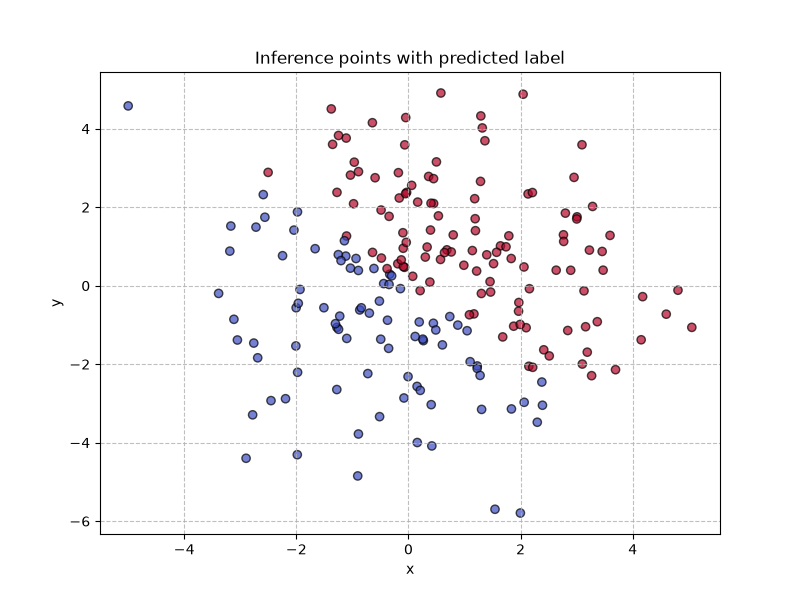
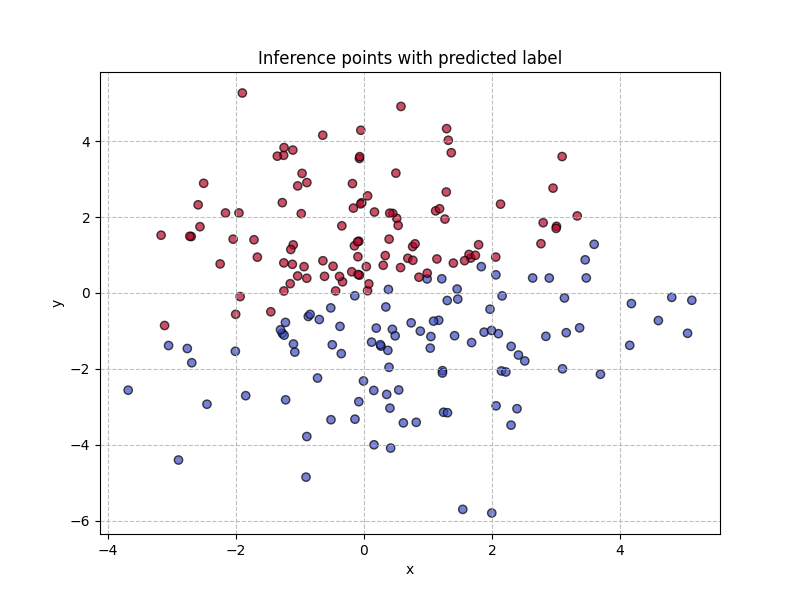
Addition of non-linear separable classes

diff --git a/src/data.py b/src/data.py
@@ -30,3 +30,22 @@ def gen_inference():
     points = c + np.random.normal(loc=0.0, scale=sigma, size=(n, 2))
 
     return points
+
+
+# non linearly separable dataset. There are two classes, one around the center (0, 0) and one at distance approx = 2 from the center
+def gen_non_lin_sep_train(): 
+    sigma = SIGMA / 2
+    n = N_PER_CLASS
+
+    points_0 = np.random.normal(loc=0.0, scale=sigma, size=(n, 2))
+    
+    r = np.random.uniform(3*0.8, 3*1.2, size=n)
+    theta = np.random.uniform(0, 2*np.pi, size=n)
+    points_1 = np.column_stack([r * np.cos(theta), r * np.sin(theta)])
+    labels_0 = np.zeros(n)
+    labels_1 = np.ones(n)
+
+    X = np.concatenate([points_0, points_1], axis=0)
+    y = np.concatenate([labels_0, labels_1], axis=0)
+
+    return X, y

diff --git a/main.py b/main.py
@@ -1,12 +1,14 @@
-from src.data import gen_inference, gen_train
-from src.logistic_regression import LogisticRegression
-from src.visualization import plot_losses, plot_train, plot_inference
+from src.data import gen_inference, gen_train, gen_non_lin_sep_train
+from src.models.logistic_regression import LogisticRegression
+from src.utils.visualization import plot_losses, plot_train, plot_inference, plot_non_lin_sep_data
 from src.config import LR, EPOCHS
+import sys
 
 
-X_train, y_train = gen_train()
+X_train, y_train = gen_non_lin_sep_train()
 model = LogisticRegression(X_train, y_train, lr=LR)
-plot_train(X_train, y_train)
+plot_non_lin_sep_data(X_train, y_train)
+sys.exit()
 
 model.train(epochs=EPOCHS, save_plot_losses=True)
 

diff --git a/README.md b/README.md
@@ -20,7 +20,7 @@ Training data: points in the plane X
 - 200 randomly distributed with gaussian distribution around (2, 2), with label y=1
 
 
-1st approach: logistic regression
+1ST APPROACH: logistic regression
 
 Initial parameters: w = (0, 0) and b = 0
 Initial accuracy: 0.5
@@ -33,3 +33,9 @@ Loss function used: binary cross-entropy, the mean value of -y * log(yhat) - (1 
 Inference on new points:
 200 points following a 2D Gaussian distribution. 
 Their predicted class can be seen in prediction.png
+^
+
+LIMIT: logistic regression does not work with non-linearly separable classes
+
+Non_linearly separable classes are generated by gen_non_lin_sep_train and can be seen in non_lin_sep_data.png.
+prediction.png shows that logistic regression cannot do a correct inference.